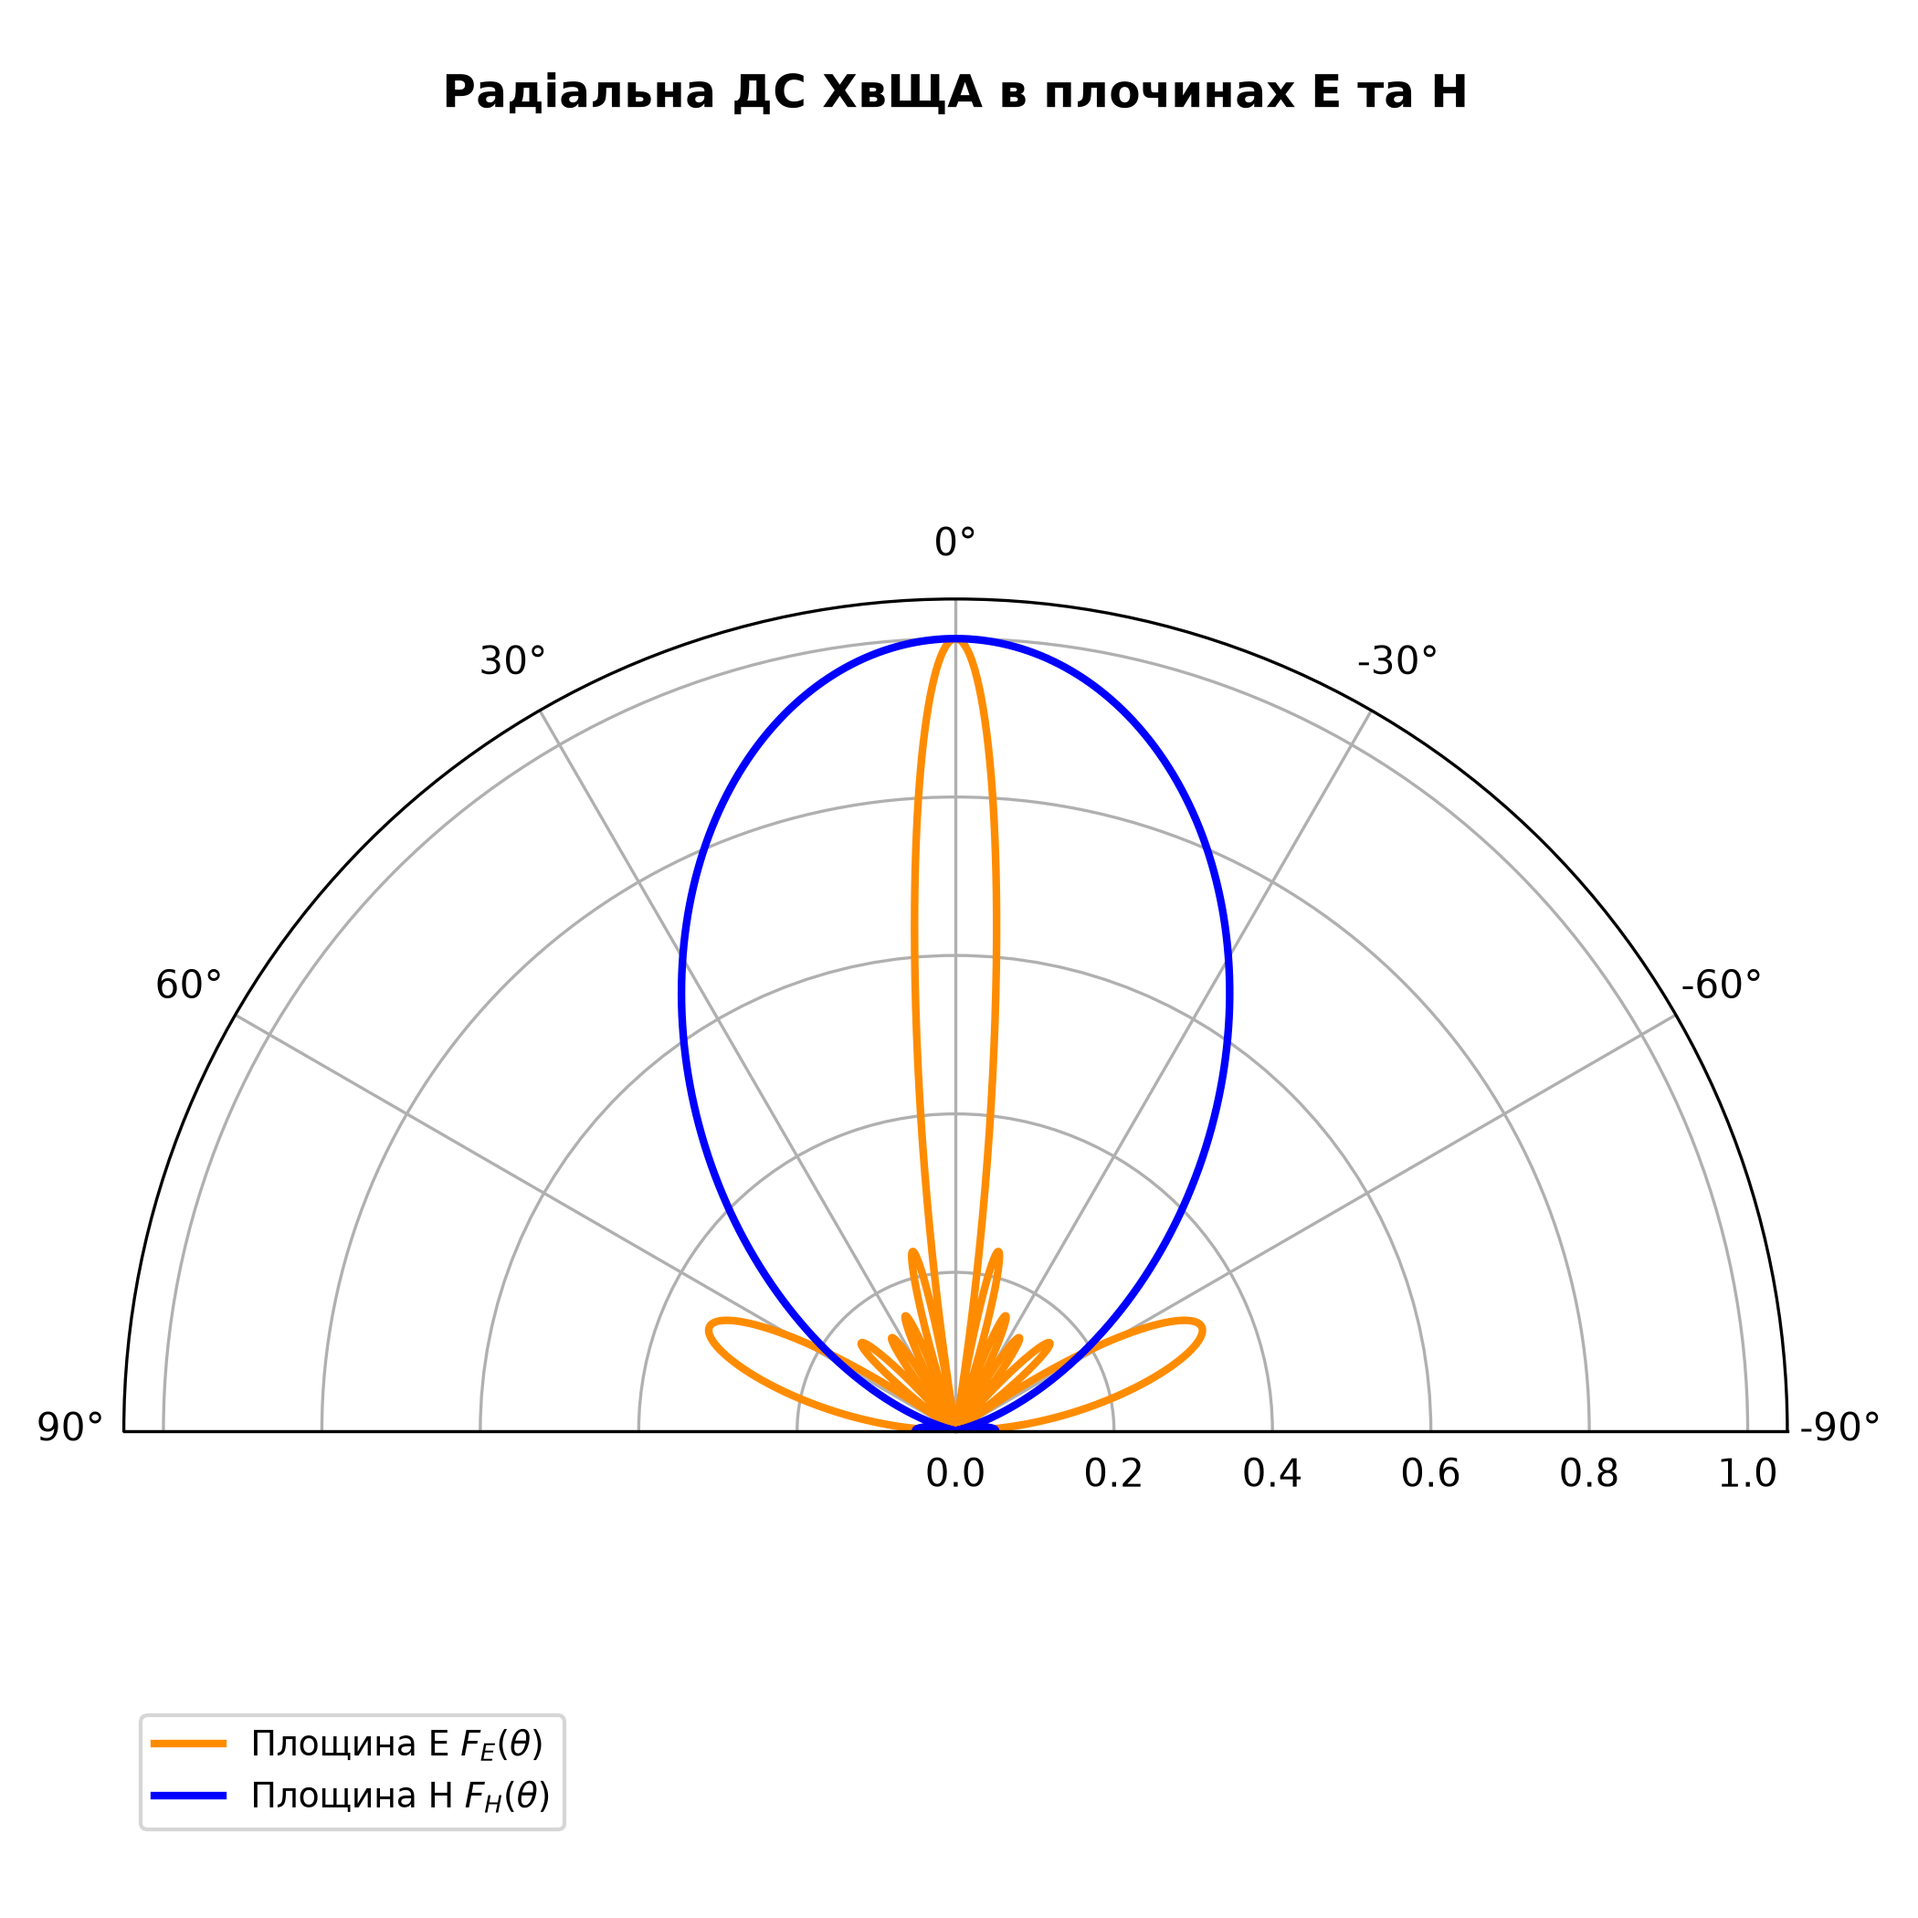
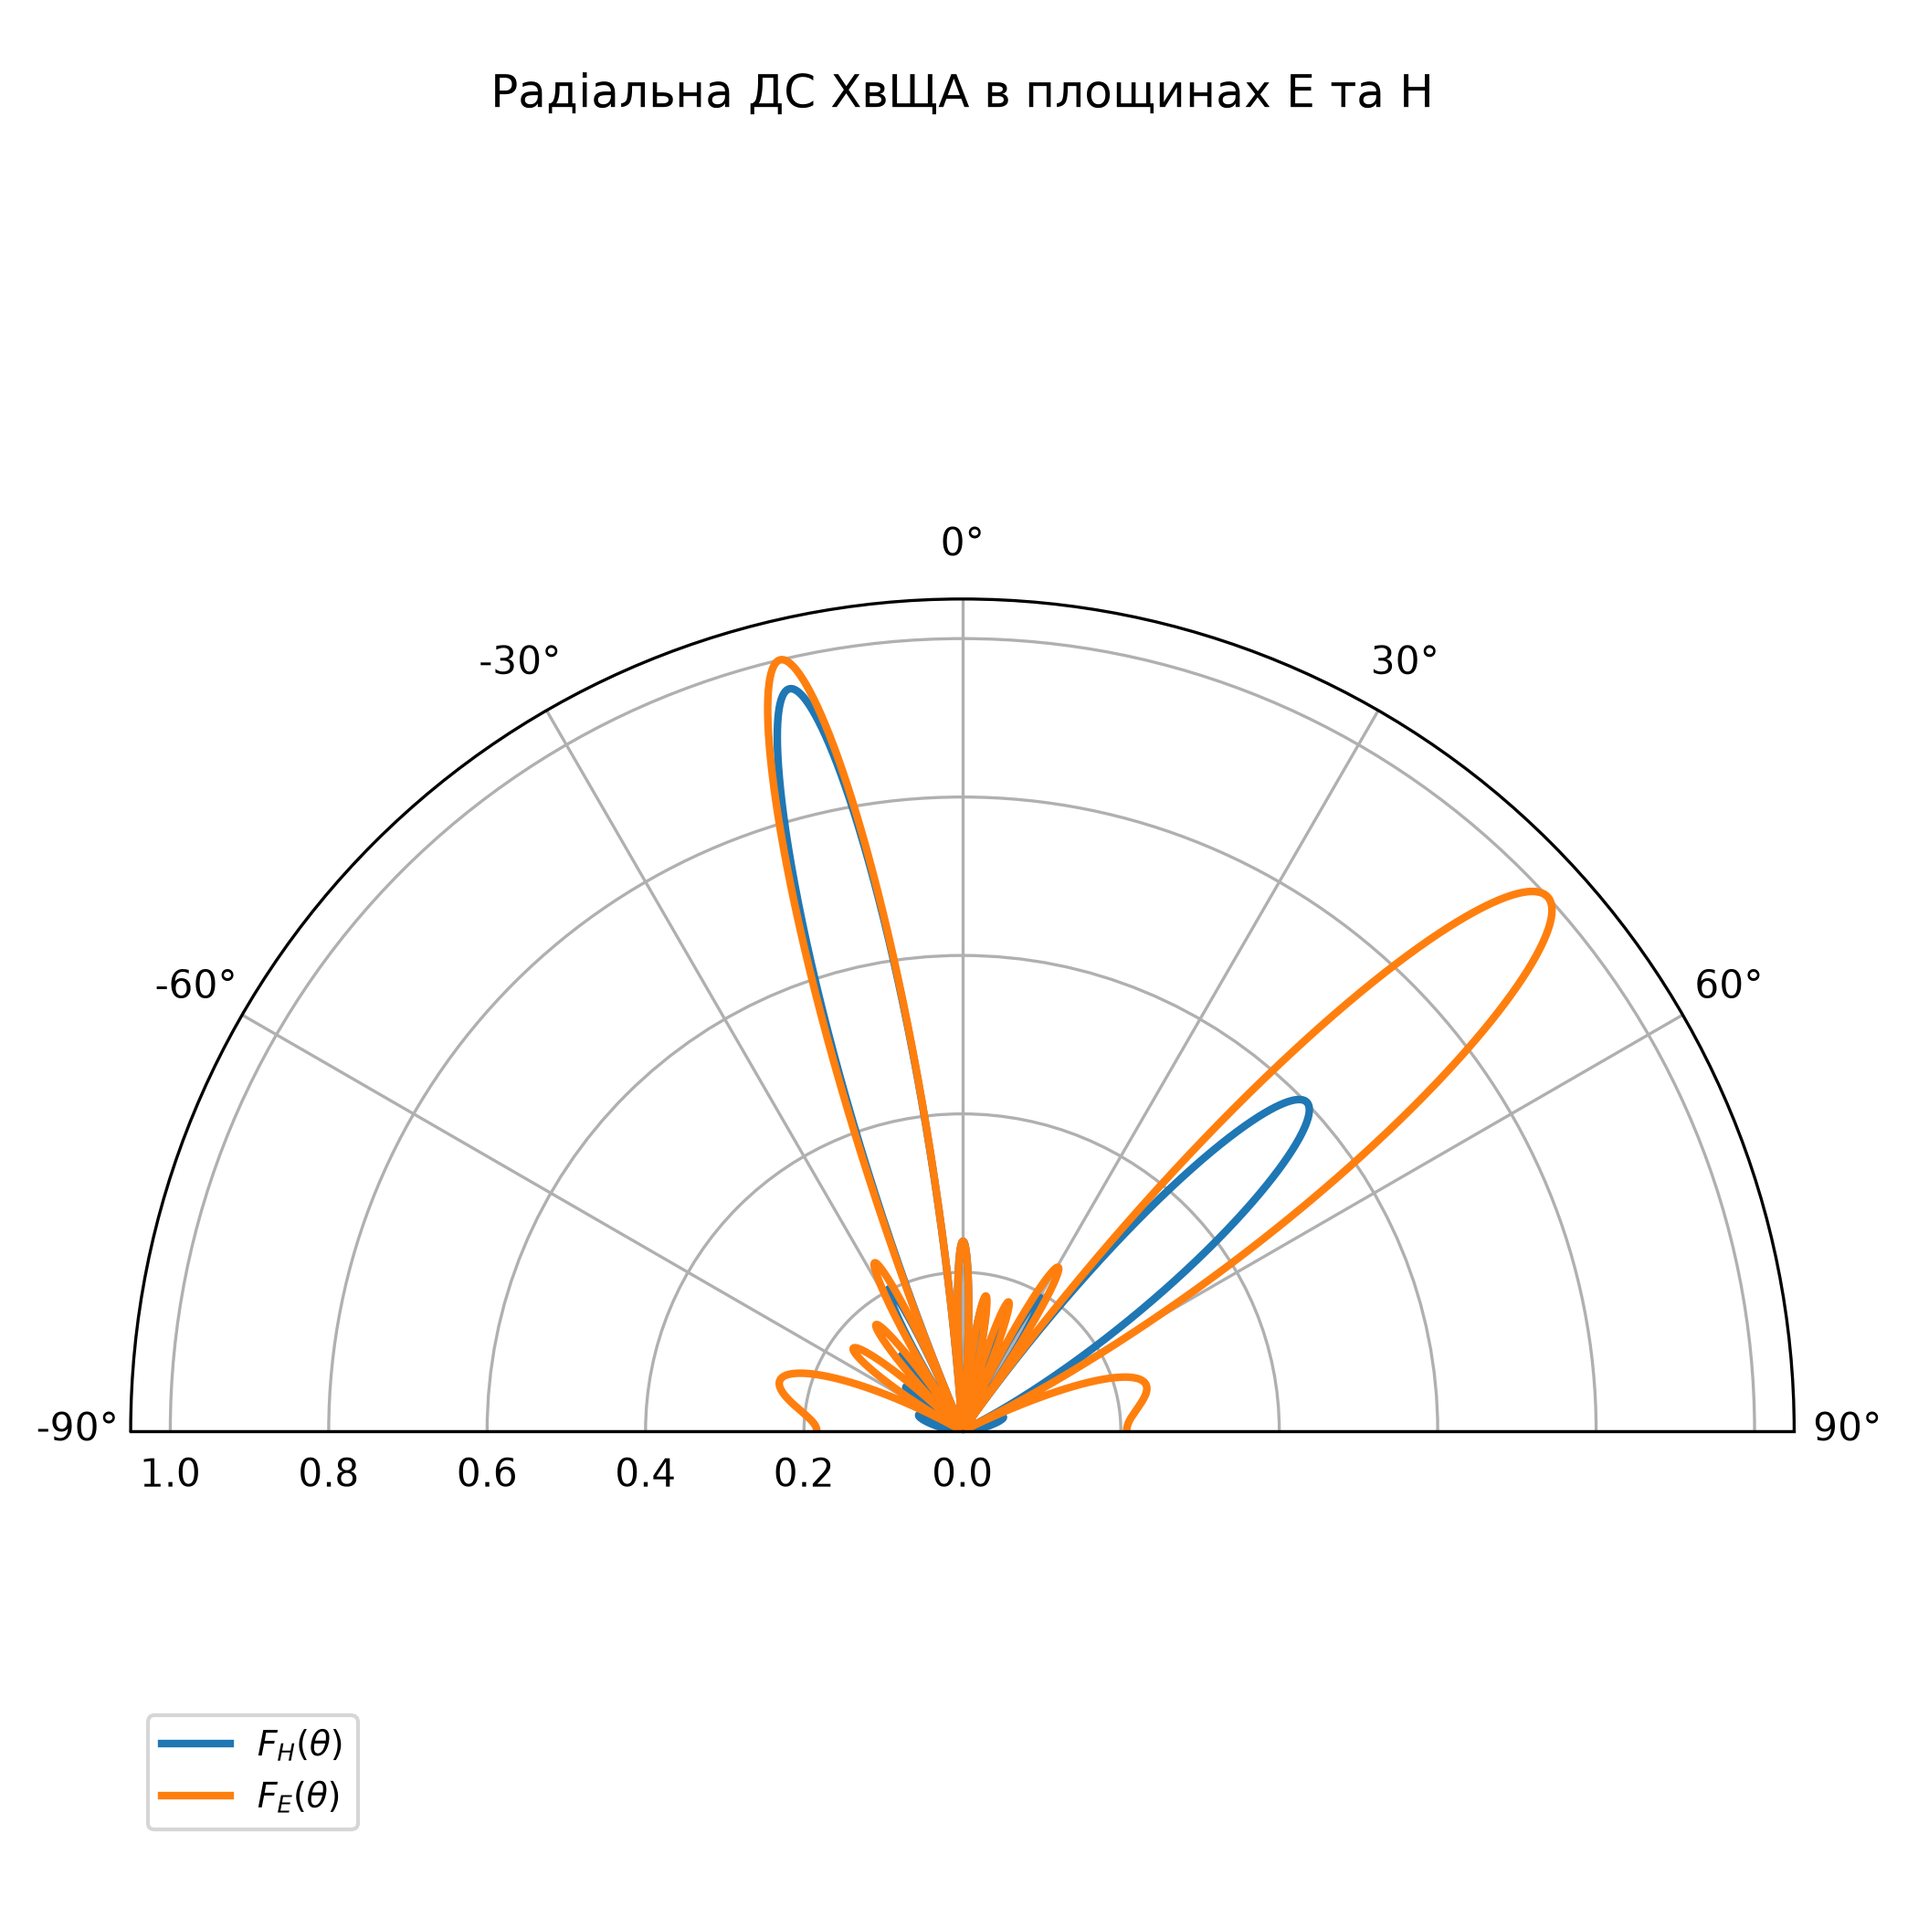
Лабораторна робота 5: перероблена

diff --git a/lab5.py b/lab5.py
@@ -1,95 +1,104 @@
 import numpy as np
 import matplotlib.pyplot as plt
 from scipy.signal import find_peaks
+from scipy.optimize import brentq
 
-# --- Початкові дані (Варіант 12, Вид 3) ---
-lambda_cm = 3.1  # Довжина хвилі [см]
-N = 6  # Кількість щілин
-l_cm = 1.6  # Довжина щілини [см]
-d_cm = 3.2  # Відстань між щілинами [см]
+# Початкові дані (Варіант 12, Вид 3)
+lam = 3.1
+a = 2.3
+N = 6
+d = 3.2
+nu = 0
 
-k = 2 * np.pi / lambda_cm
+# Параметри хвилеводу
+lam_kr = 2 * a
+lam_xv = lam / np.sqrt(1 - (lam / lam_kr)**2)
+k = 2 * np.pi / lam
+xi = (2 * np.pi * d / lam_xv) - nu * np.pi
 
-# Сітка кутів від -90 до +90 градусів
-theta_deg = np.linspace(-90, 90, 3000)
+def calc_Fc(theta_rad):
+    psi = k * d * np.sin(theta_rad) - xi
+    num = np.sin(N * psi / 2)
+    den = N * np.sin(psi / 2)
+    with np.errstate(divide='ignore', invalid='ignore'):
+        return np.where(np.abs(den) < 1e-12, 1.0, np.abs(num / den))
+
+def calc_FE(theta_rad):
+    return calc_Fc(theta_rad)
+
+def calc_FH(theta_rad):
+    cos_th = np.cos(theta_rad)
+    with np.errstate(divide='ignore', invalid='ignore'):
+        F1_H = np.where(
+            np.abs(cos_th) < 1e-12,
+            0.0,
+            np.abs(np.cos((np.pi / 2) * np.sin(theta_rad)) / cos_th)
+        )
+    return F1_H * calc_Fc(theta_rad)
+
+#  Розрахунок ДС у межах [-90°, +90°]
+theta_deg = np.linspace(-90, 90, 18001)
 theta_rad = np.radians(theta_deg)
+FE = calc_FE(theta_rad)
+FH = calc_FH(theta_rad)
 
-# --- Розрахунок ДС ---
-# В E-площині (уздовж осі хвилеводу, множник решітки)
-psi = k * d_cm * np.sin(theta_rad)
-with np.errstate(divide='ignore', invalid='ignore'):
-    Fc = np.abs(np.sin(N * psi / 2) / (N * np.sin(psi / 2)))
-    Fc[np.abs(psi / 2) < 1e-7] = 1.0
-    Fc[np.isnan(Fc)] = 1.0
+# Межі головної пелюстки за рівнем 0.707
+tH_l = np.degrees(brentq(lambda th: calc_FH(th) - 0.707, np.radians(-20), np.radians(-13.3)))
+tH_r = np.degrees(brentq(lambda th: calc_FH(th) - 0.707, np.radians(-13.3), np.radians(-5)))
+tE_l = np.degrees(brentq(lambda th: calc_FE(th) - 0.707, np.radians(-20), np.radians(-13.3)))
+tE_r = np.degrees(brentq(lambda th: calc_FE(th) - 0.707, np.radians(-13.3), np.radians(-5)))
 
-FE = np.cos(theta_rad) * Fc
-FE /= np.max(FE)
+print(f"Рівень 0.707 H: ({tH_l:.2f}°, {tH_r:.2f}°), ширина = {tH_r - tH_l:.2f}°")
+print(f"Рівень 0.707 E: ({tE_l:.2f}°, {tE_r:.2f}°), ширина = {tE_r - tE_l:.2f}°")
 
-# H-площині
-FH = np.abs(np.cos((np.pi * l_cm / lambda_cm) * np.sin(theta_rad)))
-FH /= np.max(FH)
+# Максимуми та нулі ДС
+max_H, _ = find_peaks(FH, prominence=0.01)
+min_H, _ = find_peaks(-FH)
+min_H = np.unique(np.concatenate(([0], min_H[FH[min_H] < 1e-3], [len(theta_deg) - 1])))
 
+max_E, _ = find_peaks(FE, prominence=0.01)
+min_E, _ = find_peaks(-FE)
+min_E = min_E[FE[min_E] < 1e-3]
 
-# --- Функція пошуку характеристик ---
-def analyze_pattern(F, th_deg):
-    idx_0707 = np.where((F <= 0.707) & (th_deg >= 0))[0]
-    th_0707 = th_deg[idx_0707[0]] if len(idx_0707) > 0 else 0
+# Декартова система координат
+plt.figure(figsize=(14, 6))
+plt.plot(theta_deg, FH, label='$F_H(\\theta)$', color='tab:blue', linewidth=1.8)
+plt.plot(theta_deg, FE, label='$F_E(\\theta)$', color='tab:orange', linewidth=1.8)
 
-    # Нулі ДС (мінімуми)
-    min_idx, _ = find_peaks(-F)
-    zeros = [i for i in min_idx if F[i] < 0.05 and th_deg[i] >= 0]
+plt.plot(theta_deg[max_H], FH[max_H], 's', color='firebrick', markersize=5, label='Максимуми H')
+plt.plot(theta_deg[min_H], FH[min_H], 'o', color='black', markersize=5, label='Мінімуми H')
+plt.plot(theta_deg[max_E], FE[max_E], '^', color='tab:orange', markersize=6, label='Максимуми E')
+plt.plot(theta_deg[min_E], FE[min_E], 'x', color='tab:orange', markersize=6, label='Мінімуми E')
 
-    # Максимуми бічних пелюсток
-    max_idx, _ = find_peaks(F)
-    lobes = [i for i in max_idx if th_deg[i] > th_0707]
+plt.plot([tH_l, tH_r], [0.707, 0.707], 'o', markerfacecolor='none', markeredgecolor='tab:blue',
+         markersize=8, label=f'Рівень 0.707 H ({tH_l:.2f}°, {tH_r:.2f}°)')
+plt.plot([tE_l, tE_r], [0.707, 0.707], 'o', color='tab:orange',
+         markersize=5, label=f'Рівень 0.707 E ({tE_l:.2f}°, {tE_r:.2f}°)')
+plt.plot([tE_l, tE_r], [0.707, 0.707], 'k-', linewidth=0.8)
 
-    return th_0707, zeros, lobes
-
-
-th_E, zE, lE = analyze_pattern(FE, theta_deg)
-th_H, zH, lH = analyze_pattern(FH, theta_deg)
-
-print(f"E-plane width (2*theta_0707): {2 * th_E:.2f} deg")
-print(f"H-plane width (2*theta_0707): {2 * th_H:.2f} deg")
-
-# --- Побудова у декартових координатах ---
-plt.figure(figsize=(11, 6))
-plt.plot(theta_deg, FE, label='Площина E $F_E(\\theta)$', color='darkorange', linewidth=2)
-plt.plot(theta_deg, FH, label='Площина H $F_H(\\theta)$', color='blue', linewidth=2)
-plt.axhline(0.707, color='red', linestyle='--', label='Рівень 0.707')
-
-# Позначки нулів та максимумів БП для E-площини
-plt.scatter(theta_deg[zE], FE[zE], color='green', marker='x', s=70, zorder=5, label='Нулі $F_E(\\theta)$')
-plt.scatter(theta_deg[lE], FE[lE], color='red', marker='^', s=70, zorder=5, label='Макс. БП $F_E(\\theta)$')
-
-for i in lE:
-    plt.annotate(f"({theta_deg[i]:.1f}°, {FE[i]:.2f})", (theta_deg[i], FE[i]),
-                 xytext=(0, 8), textcoords="offset points", ha='center', fontsize=8, color='red')
-
-for i in zE:
-    plt.annotate(f"{theta_deg[i]:.1f}°", (theta_deg[i], FE[i]),
-                 xytext=(0, -14), textcoords="offset points", ha='center', fontsize=7, color='green')
-
-plt.title('Нормовані діаграми спрямованості ХвЩА (Варіант 12, Вид 3)', fontsize=12, fontweight='bold')
-plt.xlabel('Кут $\\theta^\\circ$');
-plt.ylabel('$|F(\\theta)|$')
-plt.xlim([-90, 90]);
-plt.ylim([0, 1.05])
-plt.grid(True, linestyle=':', alpha=0.7)
-plt.legend(loc='upper right')
+plt.title('Діаграма спрямованості хвилевідно-щілинної антени (Варіант 12, Вид 3)', fontsize=12)
+plt.xlabel('Кут $\\theta$, °')
+plt.ylabel('Нормована амплітуда $|F(\\theta)|$')
+plt.xlim([-90, 90])
+plt.ylim([-0.02, 1.05])
+plt.xticks(np.arange(-90, 91, 10))
+plt.yticks(np.arange(0.0, 1.05, 0.1))
+plt.grid(True, linestyle='-', alpha=0.35)
+plt.legend(loc='upper center', bbox_to_anchor=(0.5, -0.13), ncol=4, fontsize=9)
 plt.tight_layout()
-plt.savefig('cartesian_patterns_lab5.png', dpi=300)
+plt.savefig('cartesian_patterns_lab5.png', dpi=300, bbox_inches='tight')
 plt.show()
 
-# --- Побудова у полярній системі координат ---
+# Полярна система координат
 plt.figure(figsize=(7, 7))
 ax = plt.subplot(111, polar=True)
-ax.plot(theta_rad, FE, label='Площина E $F_E(\\theta)$', color='darkorange', linewidth=2)
-ax.plot(theta_rad, FH, label='Площина H $F_H(\\theta)$', color='blue', linewidth=2)
+ax.plot(theta_rad, FH, label='$F_H(\\theta)$', color='tab:blue', linewidth=2)
+ax.plot(theta_rad, FE, label='$F_E(\\theta)$', color='tab:orange', linewidth=2)
 ax.set_theta_zero_location("N")
+ax.set_theta_direction(-1)
 ax.set_thetamin(-90)
 ax.set_thetamax(90)
-plt.title('Радіальна ДС ХвЩА в плочинах E та H', pad=20, fontsize=12, fontweight='bold')
+plt.title('Радіальна ДС ХвЩА в площинах E та H', pad=20, fontsize=12)
 plt.legend(loc='lower left', fontsize=9)
 plt.tight_layout()
 plt.savefig('polar_patterns_lab5.png', dpi=300)
